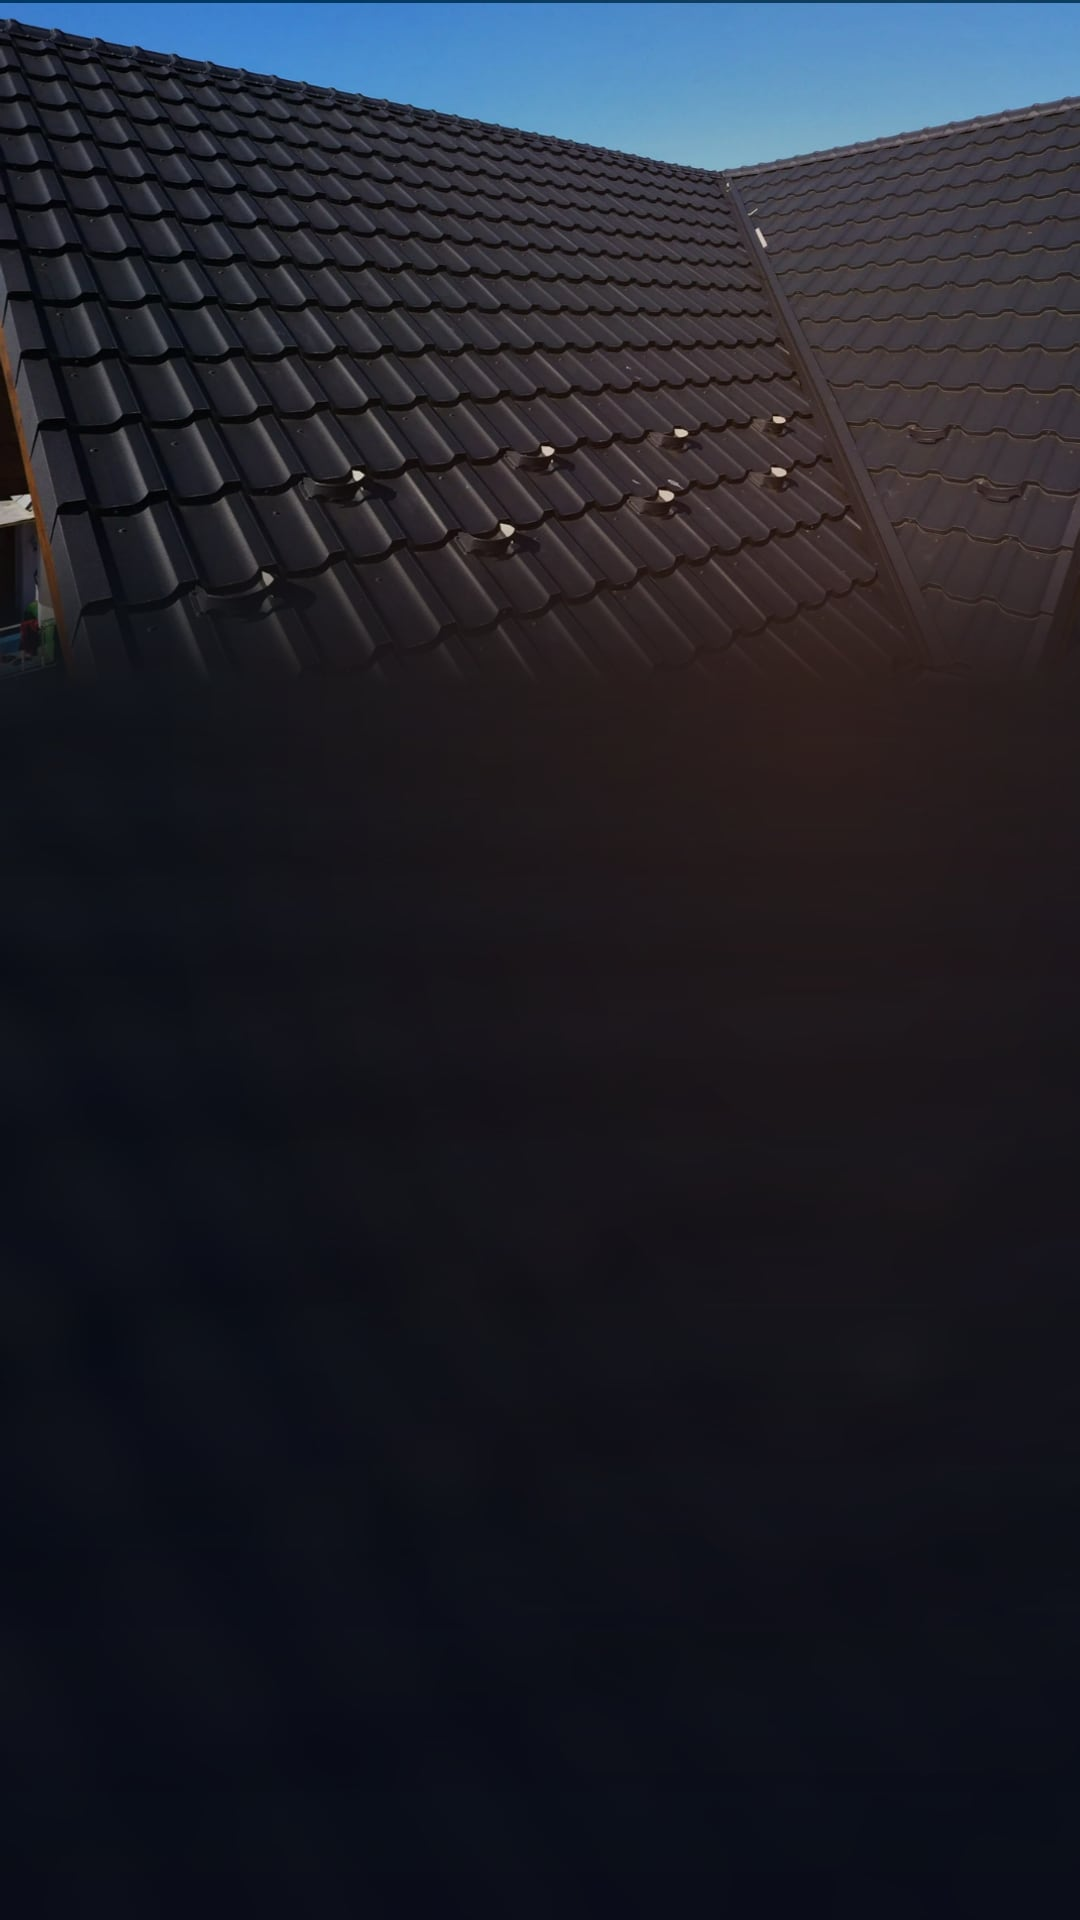
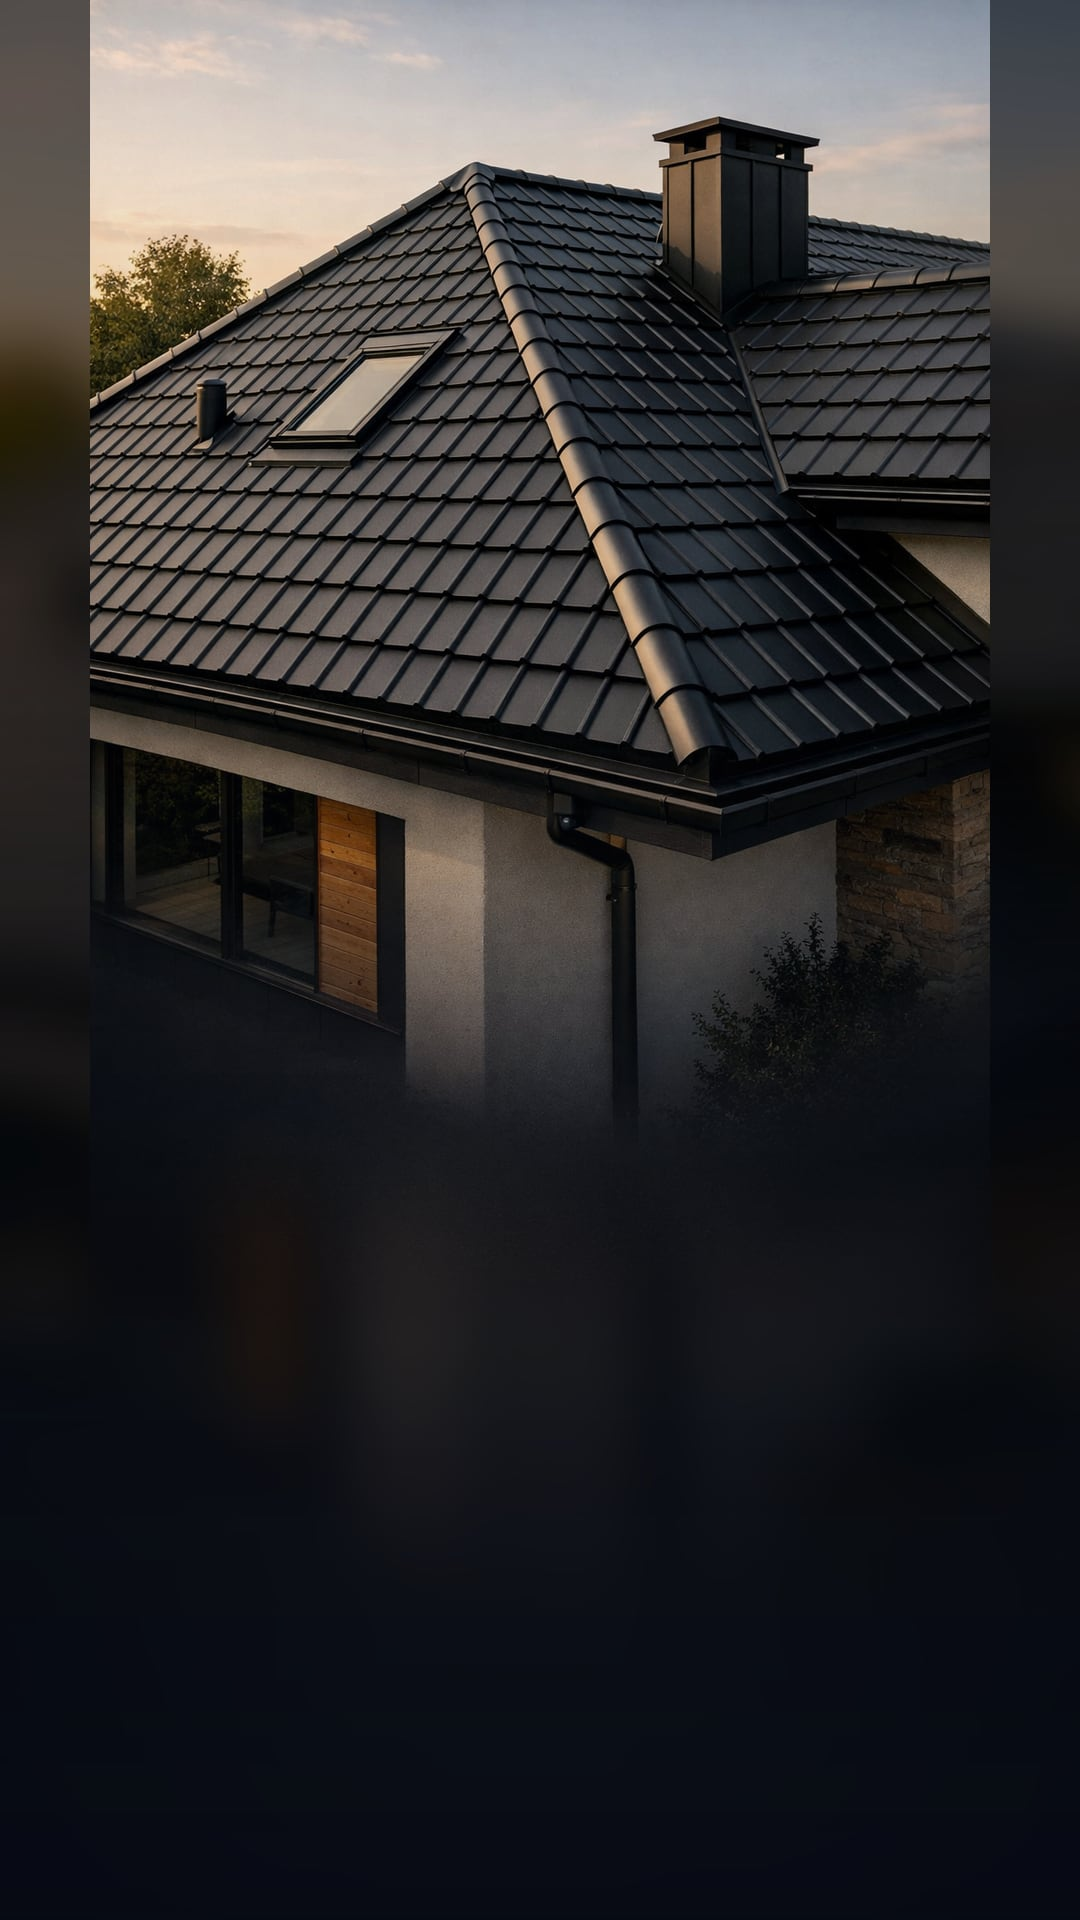
Zoom out homepage hero image

diff --git a/index.html b/index.html
@@ -84,7 +84,7 @@
 <section class="hero">
         <picture class="hero__picture" aria-hidden="true">
             <source media="(max-width: 768px)" srcset="images/homepage-hero-mobile.jpg">
-            <img class="hero__image" src="images/tigla-metalica-modulara.png" alt="" aria-hidden="true" width="1071" height="686" fetchpriority="high">
+            <img class="hero__image" src="images/homepage-hero-desktop.jpg" alt="" aria-hidden="true" width="1920" height="1080" fetchpriority="high" decoding="async">
         </picture>
         <div class="hero__overlay"></div>
         <div class="container">

diff --git a/ru/index.html b/ru/index.html
@@ -87,7 +87,7 @@
     <section class="hero">
         <picture class="hero__picture" aria-hidden="true">
             <source media="(max-width: 768px)" srcset="../images/homepage-hero-mobile.jpg">
-            <img class="hero__image" src="../images/tigla-metalica-modulara.png" alt="" aria-hidden="true" width="1071" height="686" fetchpriority="high">
+            <img class="hero__image" src="../images/homepage-hero-desktop.jpg" alt="" aria-hidden="true" width="1920" height="1080" fetchpriority="high" decoding="async">
         </picture>
         <div class="hero__overlay"></div>
         <div class="container">